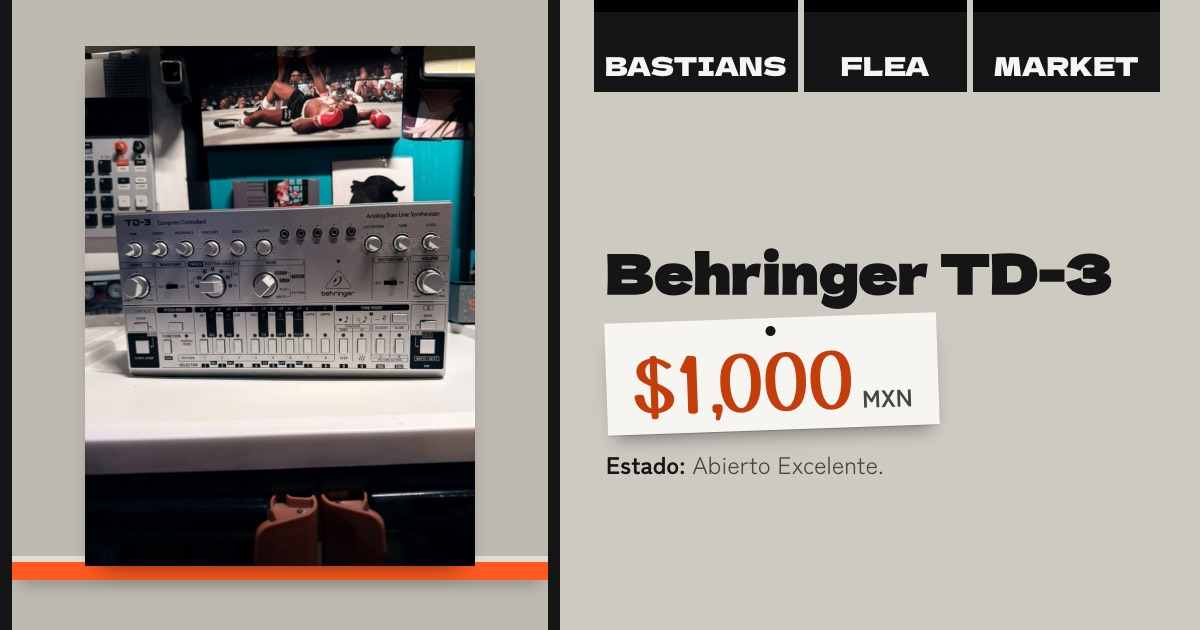
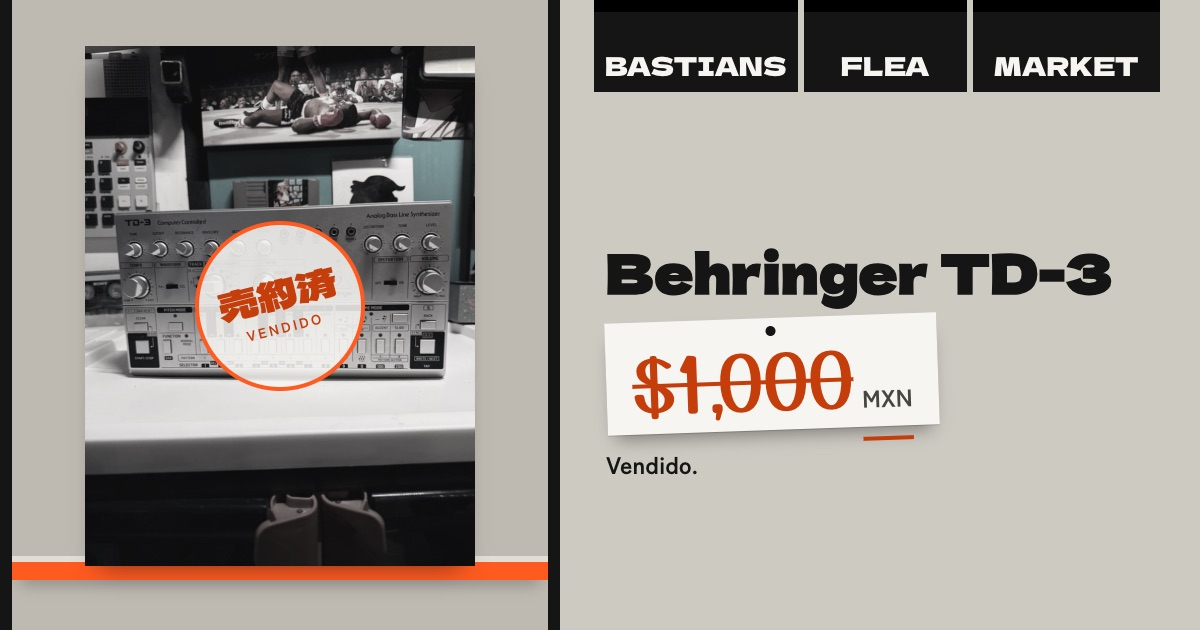
Behringer TD-3 vendido

diff --git a/site/p/behringer-td-3/index.html b/site/p/behringer-td-3/index.html
@@ -3,13 +3,13 @@
 <head>
   <meta charset="utf-8">
   <meta name="viewport" content="width=device-width, initial-scale=1">
-  <title>Behringer TD-3 · $1,000 MXN — Bastians Flea Market</title>
-  <meta name="description" content="Estado: Abierto Excelente. El squelch ácido del 303, analógico y a precio de banda. Secuenciador de 16 pasos para hacer acid house desde el primer minuto.">
+  <title>Behringer TD-3 · $1,000 MXN · VENDIDO — Bastians Flea Market</title>
+  <meta name="description" content="Ya se vendió. El squelch ácido del 303, analógico y a precio de banda. Secuenciador de 16 pasos para hacer acid house desde el primer minuto.">
   <meta property="og:type" content="product">
   <meta property="og:locale" content="es_MX">
   <meta property="og:site_name" content="Bastians Flea Market">
-  <meta property="og:title" content="Behringer TD-3 · $1,000 MXN">
-  <meta property="og:description" content="Estado: Abierto Excelente. El squelch ácido del 303, analógico y a precio de banda. Secuenciador de 16 pasos para hacer acid house desde el primer minuto.">
+  <meta property="og:title" content="Behringer TD-3 · $1,000 MXN · VENDIDO">
+  <meta property="og:description" content="Ya se vendió. El squelch ácido del 303, analógico y a precio de banda. Secuenciador de 16 pasos para hacer acid house desde el primer minuto.">
   <meta property="og:url" content="https://bastianfleamarket.netlify.app/p/behringer-td-3/">
   <meta property="og:image" content="https://bastianfleamarket.netlify.app/share/behringer-td-3.jpg">
   <meta property="og:image:width" content="1200">

diff --git a/site/data.js b/site/data.js
@@ -232,7 +232,7 @@ window.SHOP = {
    "name": "Behringer TD-3",
    "price": 1000,
    "condition": "Abierto Excelente.",
-   "sold": false,
+   "sold": true,
    "specs": [
     [
      "Tipo",
